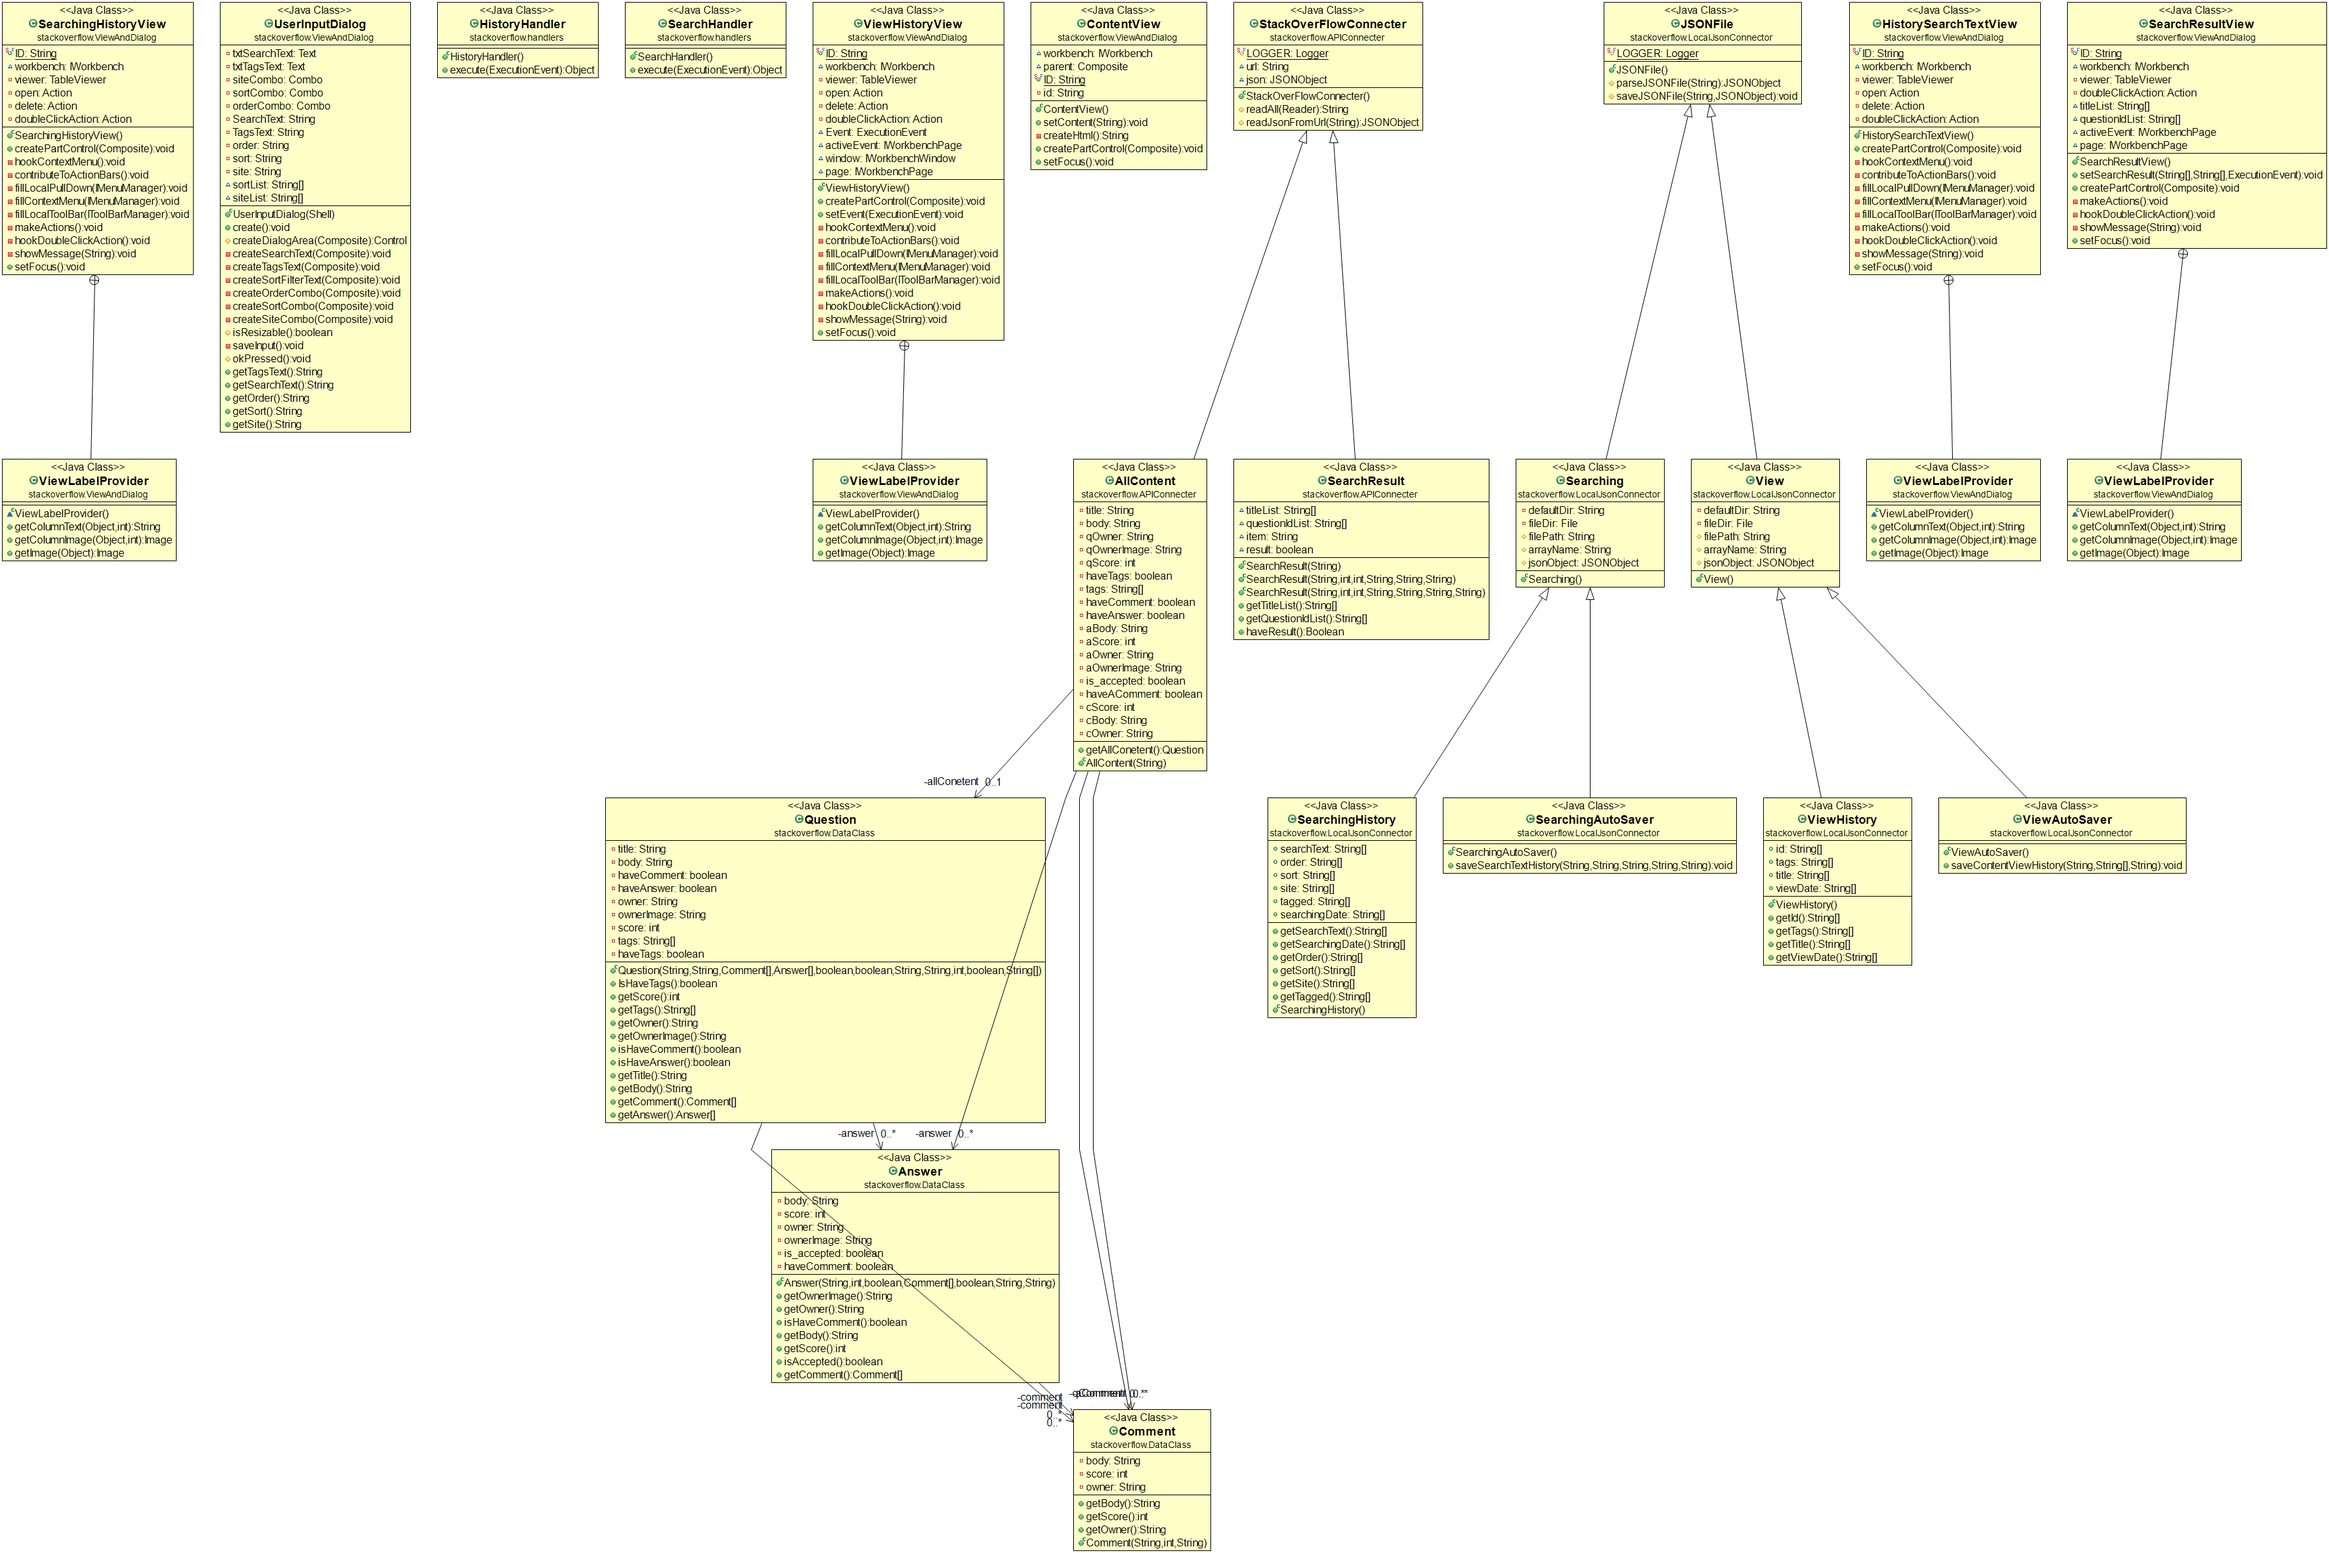
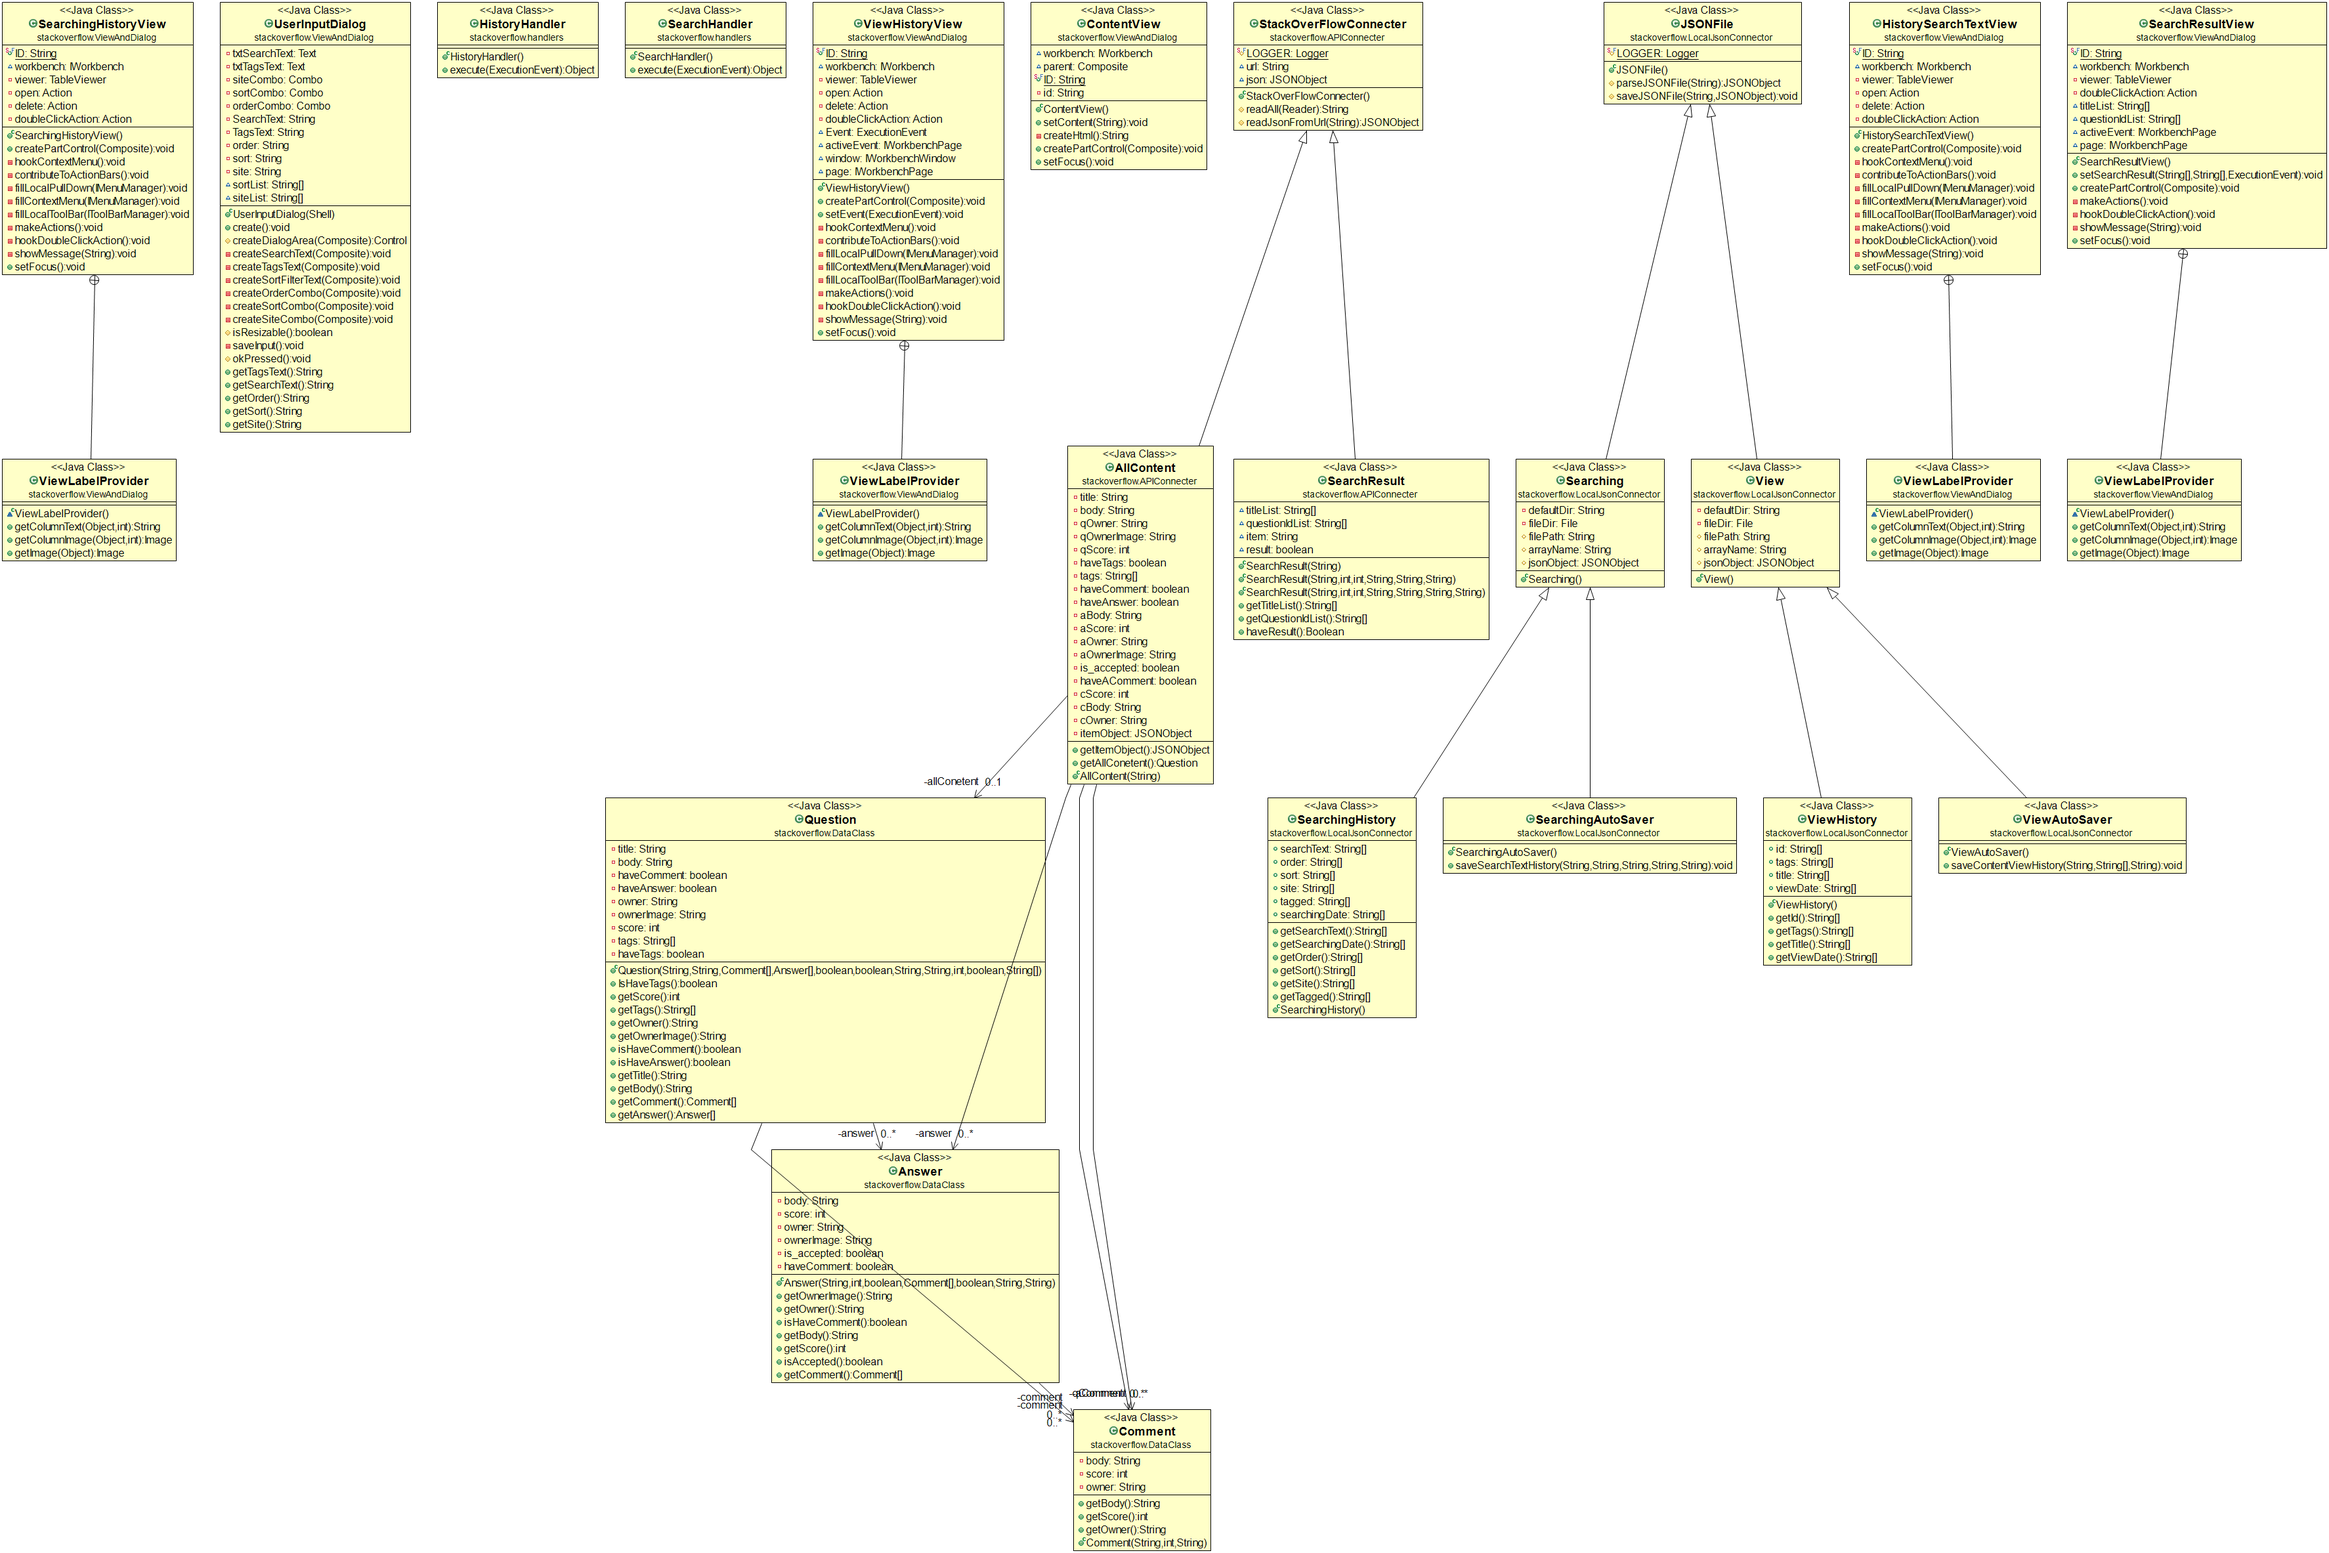
Change Class name AutoSaver -> Writer

Changed region(s): [[0.434, 0.2777, 0.5271, 0.5245]]

diff --git a/StackOverFlow/src/stackoverflow/LocalJsonConnector/Content.java b/StackOverFlow/src/stackoverflow/LocalJsonConnector/Content.java
@@ -1,0 +1,43 @@
+package stackoverflow.LocalJsonConnector;
+
+import java.io.File;
+import java.io.IOException;
+import java.nio.file.Files;
+import java.nio.file.Paths;
+import java.nio.file.StandardOpenOption;
+
+import javax.swing.JFileChooser;
+
+import org.json.JSONException;
+import org.json.JSONObject;
+
+public class Content extends JSONFile {
+
+	private String defaultDir = new JFileChooser().getFileSystemView().getDefaultDirectory().toString();
+	private File fileDir = new File(filePath = defaultDir + "\\StackOverFlowHelper");
+	protected String filePath = defaultDir + "\\StackOverFlowHelper\\OfflineContent.json";
+	protected String arrayName = "items";
+	protected JSONObject jsonObject;
+
+	public Content() throws IOException, JSONException {
+		
+		//Check if there is already Stackoverflow dir if not create one
+		if (fileDir.mkdir()) {
+			LOGGER.info("[" + LOGGER.getName() + "] " + "Directory create"+fileDir.getName());
+		}
+		else {
+			LOGGER.info("[" + LOGGER.getName() + "] " + "Directory already exists.");
+		}
+
+		File newFile = new File(filePath);
+		//Check if there is already .json file if not create one
+		if (newFile.createNewFile()) {
+			LOGGER.info("[" + LOGGER.getName() + "] " + "File created : " + newFile.getName());
+			Files.writeString(Paths.get(filePath), "{"+arrayName+":[]}", StandardOpenOption.WRITE);
+		} else {
+			LOGGER.info("[" + LOGGER.getName() + "] " + "File already exists.");
+		}
+		jsonObject = parseJSONFile(filePath);
+	}
+
+}

diff --git a/StackOverFlow/src/stackoverflow/ViewAndDialog/ContentView.java b/StackOverFlow/src/stackoverflow/ViewAndDialog/ContentView.java
@@ -7,7 +7,7 @@ import stackoverflow.APIConnecter.AllContent;
 import stackoverflow.DataClass.Answer;
 import stackoverflow.DataClass.Comment;
 import stackoverflow.DataClass.Question;
-import stackoverflow.LocalJsonConnector.ViewAutoSaver;
+import stackoverflow.LocalJsonConnector.ViewAutoWriter;
 
 import java.io.IOException;
 import javax.inject.Inject;
@@ -86,7 +86,7 @@ public class ContentView extends ViewPart {
 			question = "<h2>Question : " + q.getTitle() + "</h2>" + "<div style=\" font-size: 18px \"> " + q.getBody()
 					+ "</div><hr>";
 
-			new ViewAutoSaver().saveContentViewHistory(id, q.getTags(), q.getTitle());
+			new ViewAutoWriter().saveContentViewHistory(id, q.getTags(), q.getTitle());
 
 			for (int t = 0; t < q.getTags().length; t++) {
 				tags = tags + "<code>" + q.getTags()[t] + "</code> ";

diff --git a/StackOverFlow/src/stackoverflow/handlers/SearchHandler.java b/StackOverFlow/src/stackoverflow/handlers/SearchHandler.java
@@ -13,7 +13,7 @@ import org.eclipse.ui.PlatformUI;
 import org.eclipse.ui.handlers.HandlerUtil;
 import org.json.JSONException;
 import stackoverflow.APIConnecter.SearchResult;
-import stackoverflow.LocalJsonConnector.SearchingAutoSaver;
+import stackoverflow.LocalJsonConnector.SearchingWriter;
 import stackoverflow.ViewAndDialog.SearchResultView;
 import stackoverflow.ViewAndDialog.UserInputDialog;
 
@@ -48,7 +48,7 @@ public class SearchHandler extends AbstractHandler {
 			try {
 				
 				searchResult = new SearchResult(intitle,1,40,order,sort,site,tagged);
-				new SearchingAutoSaver().saveSearchTextHistory(intitle,order,sort,site,tagged);
+				new SearchingWriter().saveSearchTextHistory(intitle,order,sort,site,tagged);
 				
 				if (searchResult.haveResult()) {
 

diff --git a/StackOverFlow/src/stackoverflow/APIConnecter/AllContent.java b/StackOverFlow/src/stackoverflow/APIConnecter/AllContent.java
@@ -38,10 +38,17 @@ public class AllContent extends StackOverFlowConnecter {
 	private String cBody;
 	private String cOwner;
 
+	private JSONObject itemObject;
+
+	public JSONObject getItemObject() {
+		return itemObject;
+	}
 
 	public Question getAllConetent() {
 		return allConetent;
 	}
+	
+	
 
 	public AllContent(String question_id) throws IOException, JSONException {
 
@@ -53,7 +60,7 @@ public class AllContent extends StackOverFlowConnecter {
 
 		this.json = readJsonFromUrl(this.url);
 
-		JSONObject itemObject = json.getJSONArray("items").getJSONObject(0);
+		this.itemObject = json.getJSONArray("items").getJSONObject(0);
 
 		this.title = itemObject.getString("title");
 		LOGGER.info("[" + LOGGER.getName() + "] " + "title : " + title);

diff --git a/StackOverFlow/src/stackoverflow/LocalJsonConnector/ViewAutoWriter.java b/StackOverFlow/src/stackoverflow/LocalJsonConnector/ViewAutoWriter.java
@@ -7,9 +7,9 @@ import org.json.JSONArray;
 import org.json.JSONException;
 import org.json.JSONObject;
 
-public class ViewAutoSaver extends View {
+public class ViewAutoWriter extends View {
 	
-	public ViewAutoSaver() throws IOException, JSONException {
+	public ViewAutoWriter() throws IOException, JSONException {
 		super();
 		// TODO Auto-generated constructor stub
 	}

diff --git a/StackOverFlow/src/stackoverflow/LocalJsonConnector/SearchingWriter.java b/StackOverFlow/src/stackoverflow/LocalJsonConnector/SearchingWriter.java
@@ -7,9 +7,9 @@ import org.json.JSONArray;
 import org.json.JSONException;
 import org.json.JSONObject;
 
-public class SearchingAutoSaver extends Searching{
+public class SearchingWriter extends Searching{
 
-	public SearchingAutoSaver() throws IOException, JSONException {
+	public SearchingWriter() throws IOException, JSONException {
 		super();
 	}
 	

diff --git a/StackOverFlow/src/stackoverflow/LocalJsonConnector/ContentWriter.java b/StackOverFlow/src/stackoverflow/LocalJsonConnector/ContentWriter.java
@@ -1,0 +1,5 @@
+package stackoverflow.LocalJsonConnector;
+
+public class ContentWriter {
+
+}
